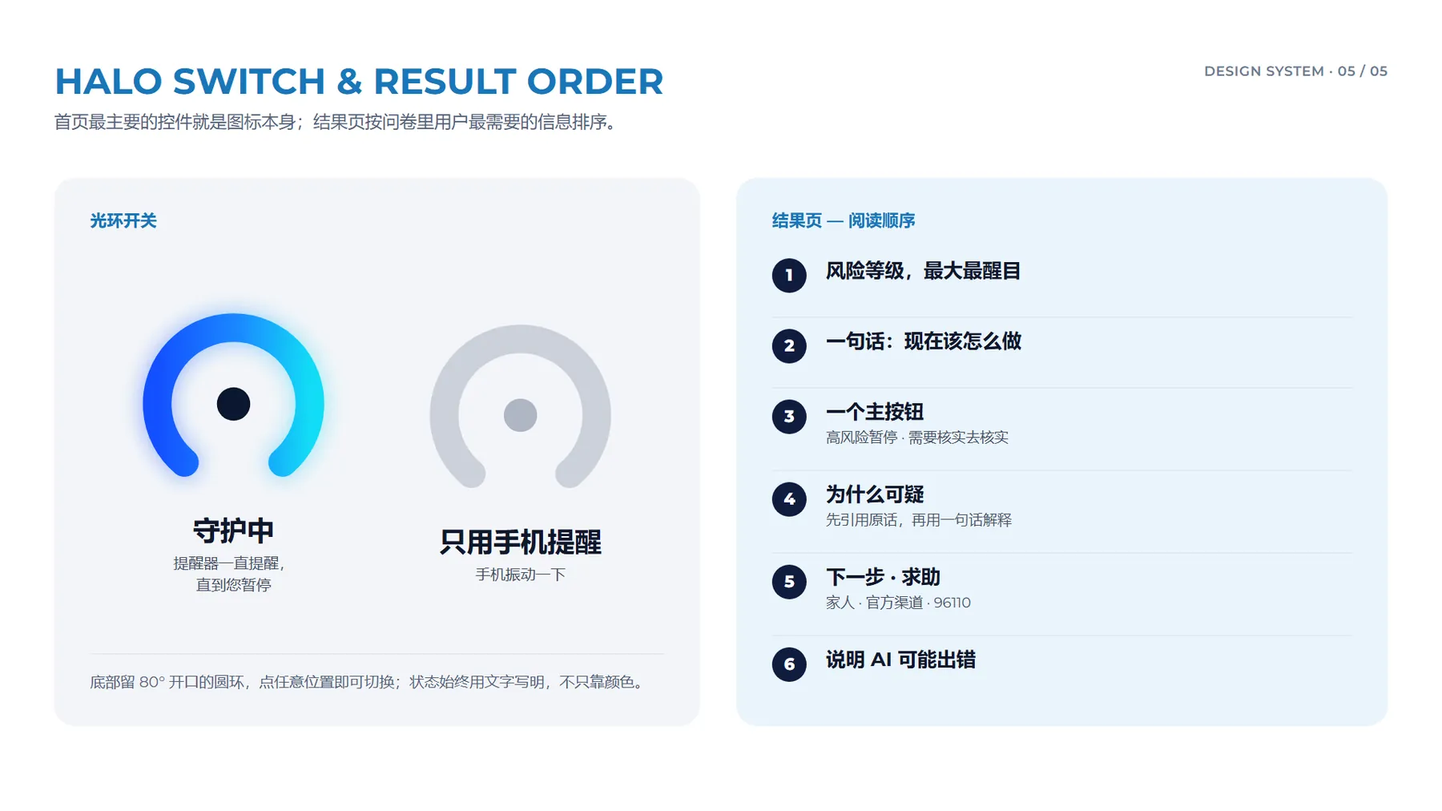
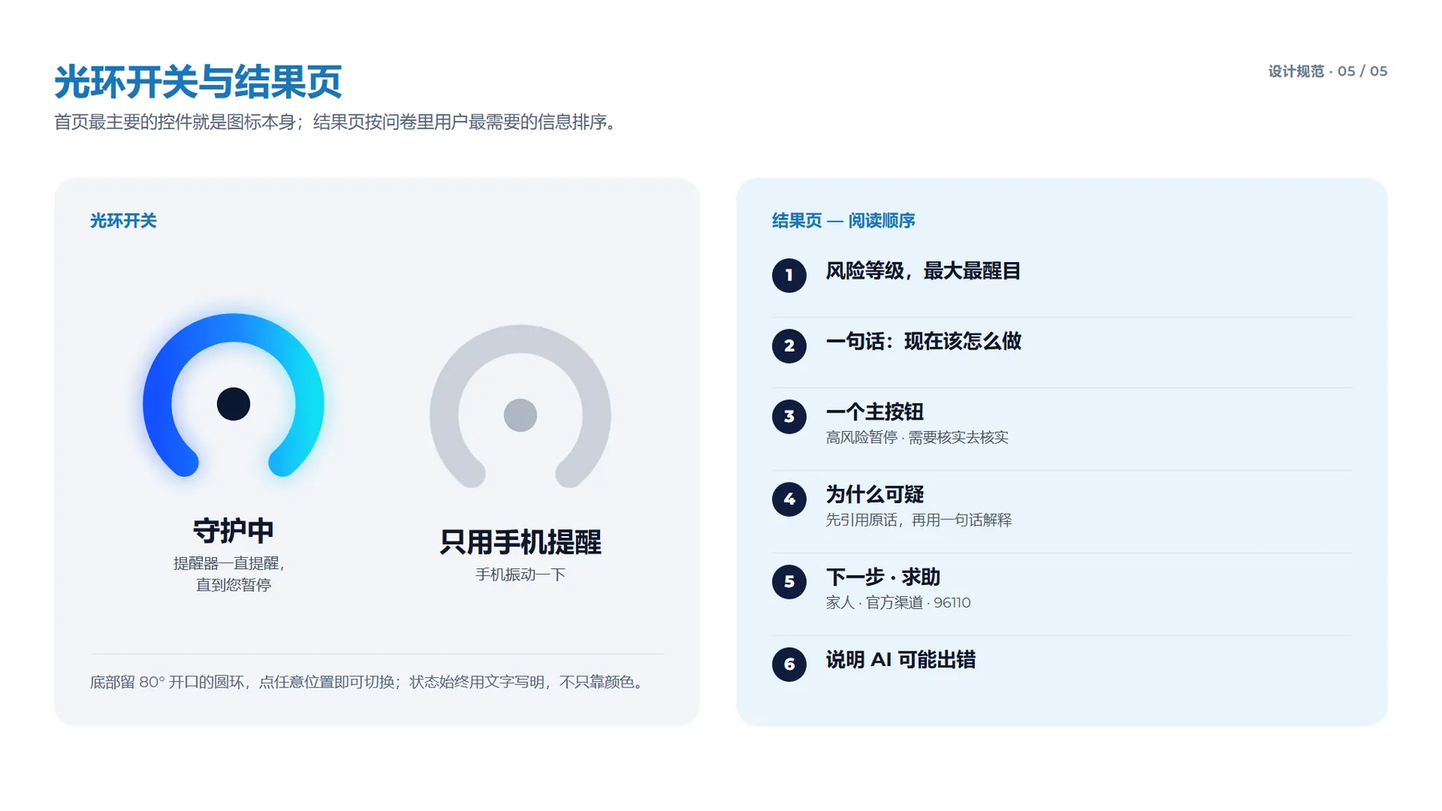
WiseHalo: titles follow the page language (中文 / English, bold); lighter dark-mode backdrop

Changed region(s): [[0.0311, 0.0613, 0.4667, 0.1225], [0.84, 0.0613, 0.9333, 0.0919]]

diff --git a/works/wisehalo.html b/works/wisehalo.html
@@ -7,7 +7,7 @@
 <meta name="description" content="WISEHALO is my MA thesis: an anti-scam experience combining AI risk analysis with a physical alert device. It asks AI to explain why a message is susp">
 <link rel="icon" href="../assets/favicon.svg" type="image/svg+xml">
 <link rel="preload" href="../assets/fonts/cousine-400.woff2" as="font" type="font/woff2" crossorigin>
-<link rel="stylesheet" href="../assets/site.css?v=1794635685">
+<link rel="stylesheet" href="../assets/site.css?v=1794635995">
 <script>
 (function(){var d=document.documentElement,l='zh',th='dark';
 try{var q=new URLSearchParams(location.search).get('lang');if(q==='en'||q==='zh')localStorage.setItem('wz-lang',q);l=q||localStorage.getItem('wz-lang')||'zh';th=localStorage.getItem('wz-theme')||'dark';}catch(e){}
@@ -33,7 +33,7 @@ try{if(!sessionStorage.getItem('wz-loaded')&&!matchMedia('(prefers-reduced-motio
 <main class="project">
   <section class="meta"><div class="m-row"><span><span class="l-zh" lang="zh-Hans-CN">项目类型</span><span class="l-en" lang="en">Project type</span></span><span class="span2"><span class="l-zh" lang="zh-Hans-CN">AI + IOT 硕士毕业设计项目</span><span class="l-en" lang="en">AI + IoT MA thesis project</span></span></div><div class="m-row"><span><span class="l-zh" lang="zh-Hans-CN">项目名称</span><span class="l-en" lang="en">Project name</span></span><span class="span2"><span class="l-zh" lang="zh-Hans-CN">WiseHalo｜AI 防诈骗风险提示系统</span><span class="l-en" lang="en">WiseHalo — Making Hidden Scam Systems Visible</span></span></div><div class="m-row"><span><span class="l-zh" lang="zh-Hans-CN">分类</span><span class="l-en" lang="en">Category</span></span><span class="span2"><span class="tag">[<span class="l-zh" lang="zh-Hans-CN">AI</span><span class="l-en" lang="en">AI</span>]</span><span class="tag">[<span class="l-zh" lang="zh-Hans-CN">交互设计</span><span class="l-en" lang="en">Interaction design</span>]</span><span class="tag">[<span class="l-zh" lang="zh-Hans-CN">IOT</span><span class="l-en" lang="en">IoT</span>]</span><span class="tag">[<span class="l-zh" lang="zh-Hans-CN">适老化</span><span class="l-en" lang="en">Age-inclusive</span>]</span></span></div><div class="m-row"><span><span class="l-zh" lang="zh-Hans-CN">时间</span><span class="l-en" lang="en">Date</span></span><span class="span2">11.2026</span></div></section>
   <div class="p-grid">
-    <div class="p-main"><figure class="fig"><img src="../images/wisehalo/00-hero.webp?v=1794632484" width="1800" height="1012" alt=""></figure><div class="sec-head"><span>01</span><span><span class="l-zh" lang="zh-Hans-CN">问题：诈骗是一个系统</span><span class="l-en" lang="en">Problem: scams are systems</span></span><span class="sec-text"><span class="l-zh" lang="zh-Hans-CN">公开案例显示，诈骗从社交平台和日常任务开始接触用户，用虚假身份建立信任，再用紧迫感和小额回报推动用户做出高风险操作。大多数人只看到表面信息，看不到背后的运作方式，也就很难在中途停下来。</span><span class="l-en" lang="en">Public cases show scams reach people through everyday channels, build trust with fake identities, then use urgency and small rewards to push risky actions. Most people only see the surface message, not the system behind it — so it is hard to stop midway.</span></span></div><div class="figs figs-stack"><figure class="fig"><img src="../images/wisehalo/01.webp?v=1794632484" width="1800" height="1012" alt="" loading="lazy" decoding="async"></figure><figure class="fig"><img src="../images/wisehalo/02.webp?v=1794632484" width="1800" height="1012" alt="" loading="lazy" decoding="async"></figure></div><div class="sec-head"><span>02</span><span><span class="l-zh" lang="zh-Hans-CN">研究：20 个公开案例 + 32 份问卷</span><span class="l-en" lang="en">Research: 20 public cases + 32 surveys</span></span><span class="sec-text"><span class="l-zh" lang="zh-Hans-CN">我分析了 20 个中国 50–65 岁受害者的公开案例，并对 32 人做了线上问卷（其中 50 岁以上 15 人）。大多数人在可疑互动中会提前退出，但最需要的不是更多警告，而是“为什么可疑”的具体解释、可以马上执行的下一步，以及对保护工具本身的信任。</span><span class="l-en" lang="en">I analysed 20 public cases of victims aged 50–65 in China and ran an online survey with 32 people (15 aged 50+). Most respondents already exit suspicious interactions early — what they need is not more warnings, but a specific explanation of why something is suspicious, an actionable next step, and trust in the protective tool itself.</span></span></div><div class="figs figs-stack"><figure class="fig"><img src="../images/wisehalo/03.webp?v=1794632484" width="1800" height="1012" alt="" loading="lazy" decoding="async"></figure><figure class="fig"><img src="../images/wisehalo/04.webp?v=1794632484" width="1800" height="1012" alt="" loading="lazy" decoding="async"></figure><figure class="fig"><img src="../images/wisehalo/05.webp?v=1794632485" width="1800" height="1012" alt="" loading="lazy" decoding="async"></figure><figure class="fig"><img src="../images/wisehalo/06.webp?v=1794632485" width="1800" height="1012" alt="" loading="lazy" decoding="async"></figure><figure class="fig"><img src="../images/wisehalo/07.webp?v=1794632485" width="1800" height="1012" alt="" loading="lazy" decoding="async"></figure><figure class="fig"><img src="../images/wisehalo/08.webp?v=1794632485" width="1800" height="1012" alt="" loading="lazy" decoding="async"></figure></div><div class="sec-head"><span>03</span><span><span class="l-zh" lang="zh-Hans-CN">策略：风险越高，反馈越强</span><span class="l-en" lang="en">Strategy: stronger risk, stronger response</span></span><span class="sec-text"><span class="l-zh" lang="zh-Hans-CN">设备的反馈随风险逐级升级：低风险用黄色呼吸灯提示“核实来源”；中风险用橙色双脉冲并解释诈骗手法、建议联系信任的人；高风险用红色快闪和重复震动，配合手机全屏提示暂停付款。始终由用户自己决定下一步。</span><span class="l-en" lang="en">Feedback escalates with risk: low risk shows a yellow breathing light and suggests checking the source; medium risk adds an orange double pulse, explains the tactic and suggests contacting someone trusted; high risk uses a fast red flash and repeated vibration with a full-screen prompt to pause the payment. The user always makes the final call.</span></span></div><div class="figs figs-stack"><figure class="fig"><img src="../images/wisehalo/09.webp?v=1794632486" width="1800" height="1012" alt="" loading="lazy" decoding="async"></figure><figure class="fig"><img src="../images/wisehalo/10.webp?v=1794632486" width="1800" height="1012" alt="" loading="lazy" decoding="async"></figure><figure class="fig"><img src="../images/wisehalo/11.webp?v=1794632486" width="1800" height="1012" alt="" loading="lazy" decoding="async"></figure></div><div class="sec-head"><span>04</span><span><span class="l-zh" lang="zh-Hans-CN">系统与信息架构</span><span class="l-en" lang="en">System &amp; information architecture</span></span><span class="sec-text"><span class="l-zh" lang="zh-Hans-CN">手机端负责接收可疑内容、调用 AI 分析并解释风险；设备端把风险等级转化为灯光与震动。信息架构围绕“检查 → 理解 → 选择安全行动”三步组织。</span><span class="l-en" lang="en">The phone receives suspicious content, calls the AI analysis and explains the risk; the device translates the risk level into light and vibration. The information architecture follows three steps: check → understand → choose a safe action.</span></span></div><div class="figs figs-stack"><figure class="fig"><img class="l-zh" src="../images/wisehalo/12.webp?v=1794635501" width="1800" height="1861" alt="" loading="lazy" decoding="async"><img class="l-en" src="../images/wisehalo/13.webp?v=1794635501" width="1800" height="1877" alt="" loading="lazy" decoding="async"></figure><figure class="fig"><img src="../images/wisehalo/14.webp?v=1794632487" width="1800" height="1012" alt="" loading="lazy" decoding="async"></figure><figure class="fig"><img src="../images/wisehalo/15.webp?v=1794632487" width="1800" height="1012" alt="" loading="lazy" decoding="async"></figure><figure class="fig"><img src="../images/wisehalo/16.webp?v=1794632488" width="1800" height="1012" alt="" loading="lazy" decoding="async"></figure></div><div class="sec-head"><span>05</span><span><span class="l-zh" lang="zh-Hans-CN">界面：从中保真到高保真</span><span class="l-en" lang="en">Interface: from mid-fi to hi-fi</span></span><span class="sec-text"><span class="l-zh" lang="zh-Hans-CN">高保真把首页做成一个由 App 图标生成的“光环开关”：打开是提醒器守护中，关掉是只用手机提醒。主题色取自图标的藏青与蓝青，鲜艳的颜色只留给光环和风险等级；结果页按“风险等级 → 一句话指令 → 一个主按钮 → 为什么可疑 → 求助”排列，并提供深色模式。下方按设计推进的顺序排列：低保真 → 中保真 → App 图标 → 设计规范（色彩、风险等级、字号与图标、组件、光环开关与结果页）→ 全部高保真界面与深色模式。</span><span class="l-en" lang="en">The hi-fi turns Home into a “halo switch” drawn from the app icon: on means the reminder is guarding, off means phone-only alerts. Colours come from the icon’s navy and blue-cyan, with bright colour reserved for the halo and risk levels. Results follow risk level → one instruction → one primary action → why it’s suspicious → get help, with a dark mode. Below, in the order the design developed: low-fi → mid-fi → app icon → design system (colour, risk levels, type &amp; icons, components, halo switch &amp; result order) → every hi-fi screen plus dark mode.</span></span></div><div class="figs figs-stack"><figure class="fig"><img src="../images/wisehalo/17.webp?v=1794634616" width="1800" height="1012" alt="" loading="lazy" decoding="async"></figure><figure class="fig"><img src="../images/wisehalo/18.webp?v=1794634616" width="1800" height="1012" alt="" loading="lazy" decoding="async"></figure><figure class="fig"><img src="../images/wisehalo/19.webp?v=1794634617" width="1800" height="1012" alt="" loading="lazy" decoding="async"></figure><figure class="fig"><img class="l-zh" src="../images/wisehalo/20.webp?v=1794635501" width="1800" height="1012" alt="" loading="lazy" decoding="async"><img class="l-en" src="../images/wisehalo/21.webp?v=1794635501" width="1800" height="1012" alt="" loading="lazy" decoding="async"></figure><figure class="fig"><img class="l-zh" src="../images/wisehalo/22.webp?v=1794635502" width="1800" height="1012" alt="" loading="lazy" decoding="async"><img class="l-en" src="../images/wisehalo/23.webp?v=1794635502" width="1800" height="1012" alt="" loading="lazy" decoding="async"></figure><figure class="fig"><img class="l-zh" src="../images/wisehalo/24.webp?v=1794635502" width="1800" height="1012" alt="" loading="lazy" decoding="async"><img class="l-en" src="../images/wisehalo/25.webp?v=1794635502" width="1800" height="1012" alt="" loading="lazy" decoding="async"></figure><figure class="fig"><img class="l-zh" src="../images/wisehalo/26.webp?v=1794635503" width="1800" height="1012" alt="" loading="lazy" decoding="async"><img class="l-en" src="../images/wisehalo/27.webp?v=1794635503" width="1800" height="1012" alt="" loading="lazy" decoding="async"></figure><figure class="fig"><img class="l-zh" src="../images/wisehalo/28.webp?v=1794635503" width="1800" height="1012" alt="" loading="lazy" decoding="async"><img class="l-en" src="../images/wisehalo/29.webp?v=1794635503" width="1800" height="1012" alt="" loading="lazy" decoding="async"></figure><figure class="fig"><img class="l-zh" src="../images/wisehalo/30.webp?v=1794635505" width="1800" height="4972" alt="" loading="lazy" decoding="async"><img class="l-en" src="../images/wisehalo/31.webp?v=1794635506" width="1800" height="5069" alt="" loading="lazy" decoding="async"></figure></div><div class="sec-head"><span>06</span><span><span class="l-zh" lang="zh-Hans-CN">可交互原型：试一试</span><span class="l-en" lang="en">Interactive prototype: try it</span></span><span class="sec-text"><span class="l-zh" lang="zh-Hans-CN">这是远程可用性测试使用的原型：点“粘贴”或选一条示例，再点“开始检查”，可以看到风险结果、先暂停 1 分钟、三步核实、发给家人，以及不用打字的“通话快速自查”。首页的光环可以在“只用手机提醒”和“手机 + 提醒器”之间切换——这正是测试中对比的两组。原型用固定规则代替 AI，提醒器状态为模拟。</span><span class="l-en" lang="en">This is the prototype used for remote usability testing: tap Paste or pick an example, then Check, to see the risk result, the 1-minute pause, three-step verification, sending it to family, and the no-typing call self-check. The halo on Home switches between phone-only alerts and phone + reminder — the two conditions compared in testing. The prototype uses fixed rules instead of AI, and the reminder is simulated.</span></span></div><div class="figs figs-stack"><figure class="fig embed phone stage st-halo"><div class="stage-bg" aria-hidden="true"><svg class="stage-halo" viewBox="0 0 236 236" preserveAspectRatio="xMidYMid meet"><defs><linearGradient id="st-halo-g" x1="0" x2="1"><stop offset="0" stop-color="#1450FF"/><stop offset=".55" stop-color="#1A8BFF"/><stop offset="1" stop-color="#12DCF6"/></linearGradient><filter id="st-halo-blur" x="-30%" y="-30%" width="160%" height="160%"><feGaussianBlur stdDeviation="9"/></filter></defs><path class="glow" d="M56.3 191.5A96 96 0 1 1 179.7 191.5"/><path class="echo" d="M38.3 213.0A124 124 0 1 1 197.7 213.0"/><path class="echo e2" d="M21.6 232.9A150 150 0 1 1 214.4 232.9"/><path class="ring" d="M56.3 191.5A96 96 0 1 1 179.7 191.5"/><circle class="led low" cx="34.9" cy="70" r="2.6"/><circle class="led mid" cx="118" cy="22" r="2.6"/><circle class="led high" cx="201.1" cy="70" r="2.6"/></svg><div class="stage-label"><b><span class="l-zh" lang="zh-Hans-CN">可试玩 · 安心护</span><span class="l-en" lang="en">Live demo · WiseHalo</span></b><span><span class="l-zh" lang="zh-Hans-CN">演示模式 · 固定规则代替 AI</span><span class="l-en" lang="en">Demo mode · fixed rules instead of AI</span></span></div><div class="stage-co stage-co1"><span class="n">01</span><b><span class="l-zh" lang="zh-Hans-CN">粘贴 → 检查</span><span class="l-en" lang="en">Paste → Check</span></b><span class="d"><span class="l-zh" lang="zh-Hans-CN">选一条示例，看风险结果</span><span class="l-en" lang="en">Pick an example, see the risk</span></span><i></i></div><div class="stage-co stage-co2"><span class="n">02</span><b><span class="l-zh" lang="zh-Hans-CN">先停一下</span><span class="l-en" lang="en">Pause first</span></b><span class="d"><span class="l-zh" lang="zh-Hans-CN">高风险时暂停 1 分钟，再核实</span><span class="l-en" lang="en">High risk: a 1-minute pause, then verify</span></span><i></i></div><div class="stage-co stage-co3"><span class="n">03</span><b><span class="l-zh" lang="zh-Hans-CN">光环开关</span><span class="l-en" lang="en">Halo switch</span></b><span class="d"><span class="l-zh" lang="zh-Hans-CN">只用手机 ↔ 手机 + 提醒器</span><span class="l-en" lang="en">Phone only ↔ phone + reminder</span></span><i></i></div><div class="stage-co stage-co4"><span class="n">04</span><b><span class="l-zh" lang="zh-Hans-CN">通话快速自查</span><span class="l-en" lang="en">Call self-check</span></b><span class="d"><span class="l-zh" lang="zh-Hans-CN">不用打字，回答 5 个问题</span><span class="l-en" lang="en">No typing, five questions</span></span><i></i></div></div><iframe data-lang-src="../wisehalo-test/?demo=1&amp;frame=1&amp;lang={lang}&amp;theme={theme}" title="WiseHalo interactive prototype" loading="lazy" allow="microphone; camera; autoplay; clipboard-write"></iframe><figcaption><a class="u" href="../wisehalo-test/?demo=1" target="_blank" rel="noopener"><span class="l-zh" lang="zh-Hans-CN">在新窗口打开，或用手机打开 ↗</span><span class="l-en" lang="en">Open in a new tab or on your phone ↗</span></a></figcaption></figure></div><div class="sec-head"><span>07</span><span><span class="l-zh" lang="zh-Hans-CN">硬件原型：灯光与震动语言</span><span class="l-en" lang="en">Hardware: a language of light and vibration</span></span><span class="sec-text"><span class="l-zh" lang="zh-Hans-CN">用 ESP32-C3、RGB 灯环和震动马达搭建原型：先在 Wokwi 中仿真三种风险等级的反馈逻辑，再在面包板上逐项测试灯光和震动，最后让 App 的 AI 分析结果驱动设备反馈。</span><span class="l-en" lang="en">Built with an ESP32-C3, an RGB LED ring and a vibration motor: the feedback logic for three risk levels was first simulated in Wokwi, then tested on a breadboard, and finally driven by the app&#x27;s AI analysis result.</span></span></div><div class="figs figs-stack"><figure class="fig"><img src="../images/wisehalo/32.webp?v=1794634622" width="1800" height="1012" alt="" loading="lazy" decoding="async"></figure><figure class="fig"><img src="../images/wisehalo/33.webp?v=1794634622" width="1800" height="1012" alt="" loading="lazy" decoding="async"></figure><figure class="fig"><img src="../images/wisehalo/34.webp?v=1794634622" width="1800" height="1012" alt="" loading="lazy" decoding="async"></figure><figure class="fig"><img src="../images/wisehalo/35.webp?v=1794634622" width="1800" height="1012" alt="" loading="lazy" decoding="async"></figure><figure class="fig"><img src="../images/wisehalo/36.webp?v=1794634623" width="1800" height="1012" alt="" loading="lazy" decoding="async"></figure><figure class="fig"><img src="../images/wisehalo/37.webp?v=1794634623" width="1800" height="1012" alt="" loading="lazy" decoding="async"></figure></div><div class="sec-head"><span>08</span><span><span class="l-zh" lang="zh-Hans-CN">现状与下一步</span><span class="l-en" lang="en">Status &amp; next steps</span></span><span class="sec-text"><span class="l-zh" lang="zh-Hans-CN">目前已实现：高保真 iOS App（SwiftUI）——提交文字或截图 → AI 分析 → 风险等级、解释与建议 → 提醒器灯光与震动；手机负责“提醒一次”，桌上的提醒器“一直提醒，直到您暂停或核实”。另有通话快速自查、读给我听、屏幕共享警告和 App 内字号。下一步：对 5 位 50 岁以上长辈做远程可用性测试（含“只有手机 / 手机 + 提醒器”对比）和专家评估。</span><span class="l-en" lang="en">Working today: a hi-fi iOS app (SwiftUI) — submit text or a screenshot → AI analysis → risk level, explanation and advice → light and vibration on the reminder. The phone alerts once; the desk reminder keeps alerting until you pause or verify. Also: a call self-check, read-aloud, a screen-sharing warning and in-app text size. Next: remote usability testing with five adults aged 50+ (including phone-only vs phone + reminder) and an expert evaluation.</span></span></div></div>
+    <div class="p-main"><figure class="fig"><img src="../images/wisehalo/00-hero.webp?v=1794632484" width="1800" height="1012" alt=""></figure><div class="sec-head"><span>01</span><span><span class="l-zh" lang="zh-Hans-CN">问题：诈骗是一个系统</span><span class="l-en" lang="en">Problem: scams are systems</span></span><span class="sec-text"><span class="l-zh" lang="zh-Hans-CN">公开案例显示，诈骗从社交平台和日常任务开始接触用户，用虚假身份建立信任，再用紧迫感和小额回报推动用户做出高风险操作。大多数人只看到表面信息，看不到背后的运作方式，也就很难在中途停下来。</span><span class="l-en" lang="en">Public cases show scams reach people through everyday channels, build trust with fake identities, then use urgency and small rewards to push risky actions. Most people only see the surface message, not the system behind it — so it is hard to stop midway.</span></span></div><div class="figs figs-stack"><figure class="fig"><img src="../images/wisehalo/01.webp?v=1794632484" width="1800" height="1012" alt="" loading="lazy" decoding="async"></figure><figure class="fig"><img src="../images/wisehalo/02.webp?v=1794632484" width="1800" height="1012" alt="" loading="lazy" decoding="async"></figure></div><div class="sec-head"><span>02</span><span><span class="l-zh" lang="zh-Hans-CN">研究：20 个公开案例 + 32 份问卷</span><span class="l-en" lang="en">Research: 20 public cases + 32 surveys</span></span><span class="sec-text"><span class="l-zh" lang="zh-Hans-CN">我分析了 20 个中国 50–65 岁受害者的公开案例，并对 32 人做了线上问卷（其中 50 岁以上 15 人）。大多数人在可疑互动中会提前退出，但最需要的不是更多警告，而是“为什么可疑”的具体解释、可以马上执行的下一步，以及对保护工具本身的信任。</span><span class="l-en" lang="en">I analysed 20 public cases of victims aged 50–65 in China and ran an online survey with 32 people (15 aged 50+). Most respondents already exit suspicious interactions early — what they need is not more warnings, but a specific explanation of why something is suspicious, an actionable next step, and trust in the protective tool itself.</span></span></div><div class="figs figs-stack"><figure class="fig"><img src="../images/wisehalo/03.webp?v=1794632484" width="1800" height="1012" alt="" loading="lazy" decoding="async"></figure><figure class="fig"><img src="../images/wisehalo/04.webp?v=1794632484" width="1800" height="1012" alt="" loading="lazy" decoding="async"></figure><figure class="fig"><img src="../images/wisehalo/05.webp?v=1794632485" width="1800" height="1012" alt="" loading="lazy" decoding="async"></figure><figure class="fig"><img src="../images/wisehalo/06.webp?v=1794632485" width="1800" height="1012" alt="" loading="lazy" decoding="async"></figure><figure class="fig"><img src="../images/wisehalo/07.webp?v=1794632485" width="1800" height="1012" alt="" loading="lazy" decoding="async"></figure><figure class="fig"><img src="../images/wisehalo/08.webp?v=1794632485" width="1800" height="1012" alt="" loading="lazy" decoding="async"></figure></div><div class="sec-head"><span>03</span><span><span class="l-zh" lang="zh-Hans-CN">策略：风险越高，反馈越强</span><span class="l-en" lang="en">Strategy: stronger risk, stronger response</span></span><span class="sec-text"><span class="l-zh" lang="zh-Hans-CN">设备的反馈随风险逐级升级：低风险用黄色呼吸灯提示“核实来源”；中风险用橙色双脉冲并解释诈骗手法、建议联系信任的人；高风险用红色快闪和重复震动，配合手机全屏提示暂停付款。始终由用户自己决定下一步。</span><span class="l-en" lang="en">Feedback escalates with risk: low risk shows a yellow breathing light and suggests checking the source; medium risk adds an orange double pulse, explains the tactic and suggests contacting someone trusted; high risk uses a fast red flash and repeated vibration with a full-screen prompt to pause the payment. The user always makes the final call.</span></span></div><div class="figs figs-stack"><figure class="fig"><img src="../images/wisehalo/09.webp?v=1794632486" width="1800" height="1012" alt="" loading="lazy" decoding="async"></figure><figure class="fig"><img src="../images/wisehalo/10.webp?v=1794632486" width="1800" height="1012" alt="" loading="lazy" decoding="async"></figure><figure class="fig"><img src="../images/wisehalo/11.webp?v=1794632486" width="1800" height="1012" alt="" loading="lazy" decoding="async"></figure></div><div class="sec-head"><span>04</span><span><span class="l-zh" lang="zh-Hans-CN">系统与信息架构</span><span class="l-en" lang="en">System &amp; information architecture</span></span><span class="sec-text"><span class="l-zh" lang="zh-Hans-CN">手机端负责接收可疑内容、调用 AI 分析并解释风险；设备端把风险等级转化为灯光与震动。信息架构围绕“检查 → 理解 → 选择安全行动”三步组织。</span><span class="l-en" lang="en">The phone receives suspicious content, calls the AI analysis and explains the risk; the device translates the risk level into light and vibration. The information architecture follows three steps: check → understand → choose a safe action.</span></span></div><div class="figs figs-stack"><figure class="fig"><img class="l-zh" src="../images/wisehalo/12.webp?v=1794635873" width="1800" height="1861" alt="" loading="lazy" decoding="async"><img class="l-en" src="../images/wisehalo/13.webp?v=1794635873" width="1800" height="1877" alt="" loading="lazy" decoding="async"></figure><figure class="fig"><img src="../images/wisehalo/14.webp?v=1794632487" width="1800" height="1012" alt="" loading="lazy" decoding="async"></figure><figure class="fig"><img src="../images/wisehalo/15.webp?v=1794632487" width="1800" height="1012" alt="" loading="lazy" decoding="async"></figure><figure class="fig"><img src="../images/wisehalo/16.webp?v=1794632488" width="1800" height="1012" alt="" loading="lazy" decoding="async"></figure></div><div class="sec-head"><span>05</span><span><span class="l-zh" lang="zh-Hans-CN">界面：从中保真到高保真</span><span class="l-en" lang="en">Interface: from mid-fi to hi-fi</span></span><span class="sec-text"><span class="l-zh" lang="zh-Hans-CN">高保真把首页做成一个由 App 图标生成的“光环开关”：打开是提醒器守护中，关掉是只用手机提醒。主题色取自图标的藏青与蓝青，鲜艳的颜色只留给光环和风险等级；结果页按“风险等级 → 一句话指令 → 一个主按钮 → 为什么可疑 → 求助”排列，并提供深色模式。下方按设计推进的顺序排列：低保真 → 中保真 → App 图标 → 设计规范（色彩、风险等级、字号与图标、组件、光环开关与结果页）→ 全部高保真界面与深色模式。</span><span class="l-en" lang="en">The hi-fi turns Home into a “halo switch” drawn from the app icon: on means the reminder is guarding, off means phone-only alerts. Colours come from the icon’s navy and blue-cyan, with bright colour reserved for the halo and risk levels. Results follow risk level → one instruction → one primary action → why it’s suspicious → get help, with a dark mode. Below, in the order the design developed: low-fi → mid-fi → app icon → design system (colour, risk levels, type &amp; icons, components, halo switch &amp; result order) → every hi-fi screen plus dark mode.</span></span></div><div class="figs figs-stack"><figure class="fig"><img src="../images/wisehalo/17.webp?v=1794634616" width="1800" height="1012" alt="" loading="lazy" decoding="async"></figure><figure class="fig"><img src="../images/wisehalo/18.webp?v=1794634616" width="1800" height="1012" alt="" loading="lazy" decoding="async"></figure><figure class="fig"><img src="../images/wisehalo/19.webp?v=1794634617" width="1800" height="1012" alt="" loading="lazy" decoding="async"></figure><figure class="fig"><img class="l-zh" src="../images/wisehalo/20.webp?v=1794635873" width="1800" height="1012" alt="" loading="lazy" decoding="async"><img class="l-en" src="../images/wisehalo/21.webp?v=1794635874" width="1800" height="1012" alt="" loading="lazy" decoding="async"></figure><figure class="fig"><img class="l-zh" src="../images/wisehalo/22.webp?v=1794635874" width="1800" height="1012" alt="" loading="lazy" decoding="async"><img class="l-en" src="../images/wisehalo/23.webp?v=1794635874" width="1800" height="1012" alt="" loading="lazy" decoding="async"></figure><figure class="fig"><img class="l-zh" src="../images/wisehalo/24.webp?v=1794635874" width="1800" height="1012" alt="" loading="lazy" decoding="async"><img class="l-en" src="../images/wisehalo/25.webp?v=1794635874" width="1800" height="1012" alt="" loading="lazy" decoding="async"></figure><figure class="fig"><img class="l-zh" src="../images/wisehalo/26.webp?v=1794635875" width="1800" height="1012" alt="" loading="lazy" decoding="async"><img class="l-en" src="../images/wisehalo/27.webp?v=1794635875" width="1800" height="1012" alt="" loading="lazy" decoding="async"></figure><figure class="fig"><img class="l-zh" src="../images/wisehalo/28.webp?v=1794635875" width="1800" height="1012" alt="" loading="lazy" decoding="async"><img class="l-en" src="../images/wisehalo/29.webp?v=1794635875" width="1800" height="1012" alt="" loading="lazy" decoding="async"></figure><figure class="fig"><img class="l-zh" src="../images/wisehalo/30.webp?v=1794635877" width="1800" height="4972" alt="" loading="lazy" decoding="async"><img class="l-en" src="../images/wisehalo/31.webp?v=1794635878" width="1800" height="5069" alt="" loading="lazy" decoding="async"></figure></div><div class="sec-head"><span>06</span><span><span class="l-zh" lang="zh-Hans-CN">可交互原型：试一试</span><span class="l-en" lang="en">Interactive prototype: try it</span></span><span class="sec-text"><span class="l-zh" lang="zh-Hans-CN">这是远程可用性测试使用的原型：点“粘贴”或选一条示例，再点“开始检查”，可以看到风险结果、先暂停 1 分钟、三步核实、发给家人，以及不用打字的“通话快速自查”。首页的光环可以在“只用手机提醒”和“手机 + 提醒器”之间切换——这正是测试中对比的两组。原型用固定规则代替 AI，提醒器状态为模拟。</span><span class="l-en" lang="en">This is the prototype used for remote usability testing: tap Paste or pick an example, then Check, to see the risk result, the 1-minute pause, three-step verification, sending it to family, and the no-typing call self-check. The halo on Home switches between phone-only alerts and phone + reminder — the two conditions compared in testing. The prototype uses fixed rules instead of AI, and the reminder is simulated.</span></span></div><div class="figs figs-stack"><figure class="fig embed phone stage st-halo"><div class="stage-bg" aria-hidden="true"><svg class="stage-halo" viewBox="0 0 236 236" preserveAspectRatio="xMidYMid meet"><defs><linearGradient id="st-halo-g" x1="0" x2="1"><stop offset="0" stop-color="#1450FF"/><stop offset=".55" stop-color="#1A8BFF"/><stop offset="1" stop-color="#12DCF6"/></linearGradient><filter id="st-halo-blur" x="-30%" y="-30%" width="160%" height="160%"><feGaussianBlur stdDeviation="9"/></filter></defs><path class="glow" d="M56.3 191.5A96 96 0 1 1 179.7 191.5"/><path class="echo" d="M38.3 213.0A124 124 0 1 1 197.7 213.0"/><path class="echo e2" d="M21.6 232.9A150 150 0 1 1 214.4 232.9"/><path class="ring" d="M56.3 191.5A96 96 0 1 1 179.7 191.5"/><circle class="led low" cx="34.9" cy="70" r="2.6"/><circle class="led mid" cx="118" cy="22" r="2.6"/><circle class="led high" cx="201.1" cy="70" r="2.6"/></svg><div class="stage-label"><b><span class="l-zh" lang="zh-Hans-CN">可试玩 · 安心护</span><span class="l-en" lang="en">Live demo · WiseHalo</span></b><span><span class="l-zh" lang="zh-Hans-CN">演示模式 · 固定规则代替 AI</span><span class="l-en" lang="en">Demo mode · fixed rules instead of AI</span></span></div><div class="stage-co stage-co1"><span class="n">01</span><b><span class="l-zh" lang="zh-Hans-CN">粘贴 → 检查</span><span class="l-en" lang="en">Paste → Check</span></b><span class="d"><span class="l-zh" lang="zh-Hans-CN">选一条示例，看风险结果</span><span class="l-en" lang="en">Pick an example, see the risk</span></span><i></i></div><div class="stage-co stage-co2"><span class="n">02</span><b><span class="l-zh" lang="zh-Hans-CN">先停一下</span><span class="l-en" lang="en">Pause first</span></b><span class="d"><span class="l-zh" lang="zh-Hans-CN">高风险时暂停 1 分钟，再核实</span><span class="l-en" lang="en">High risk: a 1-minute pause, then verify</span></span><i></i></div><div class="stage-co stage-co3"><span class="n">03</span><b><span class="l-zh" lang="zh-Hans-CN">光环开关</span><span class="l-en" lang="en">Halo switch</span></b><span class="d"><span class="l-zh" lang="zh-Hans-CN">只用手机 ↔ 手机 + 提醒器</span><span class="l-en" lang="en">Phone only ↔ phone + reminder</span></span><i></i></div><div class="stage-co stage-co4"><span class="n">04</span><b><span class="l-zh" lang="zh-Hans-CN">通话快速自查</span><span class="l-en" lang="en">Call self-check</span></b><span class="d"><span class="l-zh" lang="zh-Hans-CN">不用打字，回答 5 个问题</span><span class="l-en" lang="en">No typing, five questions</span></span><i></i></div></div><iframe data-lang-src="../wisehalo-test/?demo=1&amp;frame=1&amp;lang={lang}&amp;theme={theme}" title="WiseHalo interactive prototype" loading="lazy" allow="microphone; camera; autoplay; clipboard-write"></iframe><figcaption><a class="u" href="../wisehalo-test/?demo=1" target="_blank" rel="noopener"><span class="l-zh" lang="zh-Hans-CN">在新窗口打开，或用手机打开 ↗</span><span class="l-en" lang="en">Open in a new tab or on your phone ↗</span></a></figcaption></figure></div><div class="sec-head"><span>07</span><span><span class="l-zh" lang="zh-Hans-CN">硬件原型：灯光与震动语言</span><span class="l-en" lang="en">Hardware: a language of light and vibration</span></span><span class="sec-text"><span class="l-zh" lang="zh-Hans-CN">用 ESP32-C3、RGB 灯环和震动马达搭建原型：先在 Wokwi 中仿真三种风险等级的反馈逻辑，再在面包板上逐项测试灯光和震动，最后让 App 的 AI 分析结果驱动设备反馈。</span><span class="l-en" lang="en">Built with an ESP32-C3, an RGB LED ring and a vibration motor: the feedback logic for three risk levels was first simulated in Wokwi, then tested on a breadboard, and finally driven by the app&#x27;s AI analysis result.</span></span></div><div class="figs figs-stack"><figure class="fig"><img src="../images/wisehalo/32.webp?v=1794634622" width="1800" height="1012" alt="" loading="lazy" decoding="async"></figure><figure class="fig"><img src="../images/wisehalo/33.webp?v=1794634622" width="1800" height="1012" alt="" loading="lazy" decoding="async"></figure><figure class="fig"><img src="../images/wisehalo/34.webp?v=1794634622" width="1800" height="1012" alt="" loading="lazy" decoding="async"></figure><figure class="fig"><img src="../images/wisehalo/35.webp?v=1794634622" width="1800" height="1012" alt="" loading="lazy" decoding="async"></figure><figure class="fig"><img src="../images/wisehalo/36.webp?v=1794634623" width="1800" height="1012" alt="" loading="lazy" decoding="async"></figure><figure class="fig"><img src="../images/wisehalo/37.webp?v=1794634623" width="1800" height="1012" alt="" loading="lazy" decoding="async"></figure></div><div class="sec-head"><span>08</span><span><span class="l-zh" lang="zh-Hans-CN">现状与下一步</span><span class="l-en" lang="en">Status &amp; next steps</span></span><span class="sec-text"><span class="l-zh" lang="zh-Hans-CN">目前已实现：高保真 iOS App（SwiftUI）——提交文字或截图 → AI 分析 → 风险等级、解释与建议 → 提醒器灯光与震动；手机负责“提醒一次”，桌上的提醒器“一直提醒，直到您暂停或核实”。另有通话快速自查、读给我听、屏幕共享警告和 App 内字号。下一步：对 5 位 50 岁以上长辈做远程可用性测试（含“只有手机 / 手机 + 提醒器”对比）和专家评估。</span><span class="l-en" lang="en">Working today: a hi-fi iOS app (SwiftUI) — submit text or a screenshot → AI analysis → risk level, explanation and advice → light and vibration on the reminder. The phone alerts once; the desk reminder keeps alerting until you pause or verify. Also: a call self-check, read-aloud, a screen-sharing warning and in-app text size. Next: remote usability testing with five adults aged 50+ (including phone-only vs phone + reminder) and an expert evaluation.</span></span></div></div>
     <aside class="p-side"><div class="sticky"><p><span class="l-zh" lang="zh-Hans-CN">WISEHALO 是我的硕士毕业设计，一个结合 AI 风险分析与实体提醒设备的防诈骗体验项目。项目把可疑信息交给 AI 解释“为什么可疑”，并通过灯光与震动在关键时刻提醒用户先停下来，探索如何让隐藏在日常沟通中的诈骗系统变得可见、可理解、可应对。</span><span class="l-en" lang="en">WISEHALO is my MA thesis: an anti-scam experience combining AI risk analysis with a physical alert device. It asks AI to explain why a message is suspicious and uses light and vibration to prompt a pause at the critical moment — making the scam systems hidden in everyday communication visible, understandable and actionable.</span></p></div></aside>
   </div>
   <section class="meta p-foot"><div class="m-row"><span><span class="l-zh" lang="zh-Hans-CN">CREDITS</span><span class="l-en" lang="en">CREDITS</span></span><span class="span2"><span class="l-zh" lang="zh-Hans-CN">用户研究｜AI 功能设计｜交互设计｜界面设计｜硬件原型</span><span class="l-en" lang="en">User research | AI feature design | Interaction design | UI | Hardware prototyping</span></span></div><div class="m-row"><span><span class="l-zh" lang="zh-Hans-CN">项目性质</span><span class="l-en" lang="en">Format</span></span><span class="span2"><span class="l-zh" lang="zh-Hans-CN">硕士毕业设计 · 个人项目</span><span class="l-en" lang="en">MA thesis · Solo project</span></span></div><div class="m-row"><span><span class="l-zh" lang="zh-Hans-CN">团队</span><span class="l-en" lang="en">Team</span></span><span class="span2"><span class="l-zh" lang="zh-Hans-CN">个人项目</span><span class="l-en" lang="en">Solo</span></span></div><div class="m-row"><span><span class="l-zh" lang="zh-Hans-CN">课程</span><span class="l-en" lang="en">Course</span></span><span class="span2">ITGM 748 · SCAD</span></div><div class="m-row"><span><span class="l-zh" lang="zh-Hans-CN">周期</span><span class="l-en" lang="en">Timeline</span></span><span class="span2">2026.09 – 2026.11</span></div><div class="m-row"><span><span class="l-zh" lang="zh-Hans-CN">工具</span><span class="l-en" lang="en">Tools</span></span><span class="span2">Figma · ESP32-C3 · Wokwi · LLM API · Rhino</span></div><div class="m-row"><span><span class="l-zh" lang="zh-Hans-CN">状态</span><span class="l-en" lang="en">Status</span></span><span class="span2"><span class="l-zh" lang="zh-Hans-CN">进行中</span><span class="l-en" lang="en">In progress</span></span></div><div class="m-row pager"><span></span><span class="span2"><a href="ai-companion-toy.html">NEXT ›</a></span></div></section>
@@ -51,6 +51,6 @@ try{if(!sessionStorage.getItem('wz-loaded')&&!matchMedia('(prefers-reduced-motio
     <div class="dim r">DESIGN &amp; BUILT BY WEI ZHAO</div>
   </div>
 </footer>
-<script src="../assets/site.js?v=1794635685"></script>
+<script src="../assets/site.js?v=1794635995"></script>
 </body>
 </html>

diff --git a/works/closetify.html b/works/closetify.html
@@ -7,7 +7,7 @@
 <meta name="description" content="CLOSETIFY is an AI outfit assistant that suggests looks based on the user&#x27;s wardrobe, weather, schedule and personal style. Built around digital wardr">
 <link rel="icon" href="../assets/favicon.svg" type="image/svg+xml">
 <link rel="preload" href="../assets/fonts/cousine-400.woff2" as="font" type="font/woff2" crossorigin>
-<link rel="stylesheet" href="../assets/site.css?v=1794635685">
+<link rel="stylesheet" href="../assets/site.css?v=1794635995">
 <script>
 (function(){var d=document.documentElement,l='zh',th='dark';
 try{var q=new URLSearchParams(location.search).get('lang');if(q==='en'||q==='zh')localStorage.setItem('wz-lang',q);l=q||localStorage.getItem('wz-lang')||'zh';th=localStorage.getItem('wz-theme')||'dark';}catch(e){}
@@ -51,6 +51,6 @@ try{if(!sessionStorage.getItem('wz-loaded')&&!matchMedia('(prefers-reduced-motio
     <div class="dim r">DESIGN &amp; BUILT BY WEI ZHAO</div>
   </div>
 </footer>
-<script src="../assets/site.js?v=1794635685"></script>
+<script src="../assets/site.js?v=1794635995"></script>
 </body>
 </html>

diff --git a/works/visual-archive.html b/works/visual-archive.html
@@ -7,7 +7,7 @@
 <meta name="description" content="VISUAL ARCHIVE collects my undergraduate work in visual communication — photography, posters, motion posters, packaging, character IP, screen printing">
 <link rel="icon" href="../assets/favicon.svg" type="image/svg+xml">
 <link rel="preload" href="../assets/fonts/cousine-400.woff2" as="font" type="font/woff2" crossorigin>
-<link rel="stylesheet" href="../assets/site.css?v=1794635685">
+<link rel="stylesheet" href="../assets/site.css?v=1794635995">
 <script>
 (function(){var d=document.documentElement,l='zh',th='dark';
 try{var q=new URLSearchParams(location.search).get('lang');if(q==='en'||q==='zh')localStorage.setItem('wz-lang',q);l=q||localStorage.getItem('wz-lang')||'zh';th=localStorage.getItem('wz-theme')||'dark';}catch(e){}
@@ -51,6 +51,6 @@ try{if(!sessionStorage.getItem('wz-loaded')&&!matchMedia('(prefers-reduced-motio
     <div class="dim r">DESIGN &amp; BUILT BY WEI ZHAO</div>
   </div>
 </footer>
-<script src="../assets/site.js?v=1794635685"></script>
+<script src="../assets/site.js?v=1794635995"></script>
 </body>
 </html>

diff --git a/works/2-puzzle.html b/works/2-puzzle.html
@@ -7,7 +7,7 @@
 <meta name="description" content="2 PUZZLE is an animal-themed puzzle game built solo in Unity in two weeks, with a full flow from title screen and level select to timed puzzles and a ">
 <link rel="icon" href="../assets/favicon.svg" type="image/svg+xml">
 <link rel="preload" href="../assets/fonts/cousine-400.woff2" as="font" type="font/woff2" crossorigin>
-<link rel="stylesheet" href="../assets/site.css?v=1794635685">
+<link rel="stylesheet" href="../assets/site.css?v=1794635995">
 <script>
 (function(){var d=document.documentElement,l='zh',th='dark';
 try{var q=new URLSearchParams(location.search).get('lang');if(q==='en'||q==='zh')localStorage.setItem('wz-lang',q);l=q||localStorage.getItem('wz-lang')||'zh';th=localStorage.getItem('wz-theme')||'dark';}catch(e){}
@@ -51,6 +51,6 @@ try{if(!sessionStorage.getItem('wz-loaded')&&!matchMedia('(prefers-reduced-motio
     <div class="dim r">DESIGN &amp; BUILT BY WEI ZHAO</div>
   </div>
 </footer>
-<script src="../assets/site.js?v=1794635685"></script>
+<script src="../assets/site.js?v=1794635995"></script>
 </body>
 </html>

diff --git a/works/ai-companion-toy.html b/works/ai-companion-toy.html
@@ -7,7 +7,7 @@
 <meta name="description" content="AI Companion Toy brings an AI character into a physical object. A round display in a heart-shaped shell plays blinking, talking animation, the phone h">
 <link rel="icon" href="../assets/favicon.svg" type="image/svg+xml">
 <link rel="preload" href="../assets/fonts/cousine-400.woff2" as="font" type="font/woff2" crossorigin>
-<link rel="stylesheet" href="../assets/site.css?v=1794635685">
+<link rel="stylesheet" href="../assets/site.css?v=1794635995">
 <script>
 (function(){var d=document.documentElement,l='zh',th='dark';
 try{var q=new URLSearchParams(location.search).get('lang');if(q==='en'||q==='zh')localStorage.setItem('wz-lang',q);l=q||localStorage.getItem('wz-lang')||'zh';th=localStorage.getItem('wz-theme')||'dark';}catch(e){}
@@ -52,6 +52,6 @@ try{if(!sessionStorage.getItem('wz-loaded')&&!matchMedia('(prefers-reduced-motio
     <div class="dim r">DESIGN &amp; BUILT BY WEI ZHAO</div>
   </div>
 </footer>
-<script src="../assets/site.js?v=1794635685"></script>
+<script src="../assets/site.js?v=1794635995"></script>
 </body>
 </html>

diff --git a/works/bloom-near-you.html b/works/bloom-near-you.html
@@ -7,7 +7,7 @@
 <meta name="description" content="BLOOM NEAR YOU is a digital platform combining AI flower identification, local florist discovery, online ordering and after-sales care. Users can phot">
 <link rel="icon" href="../assets/favicon.svg" type="image/svg+xml">
 <link rel="preload" href="../assets/fonts/cousine-400.woff2" as="font" type="font/woff2" crossorigin>
-<link rel="stylesheet" href="../assets/site.css?v=1794635685">
+<link rel="stylesheet" href="../assets/site.css?v=1794635995">
 <script>
 (function(){var d=document.documentElement,l='zh',th='dark';
 try{var q=new URLSearchParams(location.search).get('lang');if(q==='en'||q==='zh')localStorage.setItem('wz-lang',q);l=q||localStorage.getItem('wz-lang')||'zh';th=localStorage.getItem('wz-theme')||'dark';}catch(e){}
@@ -51,6 +51,6 @@ try{if(!sessionStorage.getItem('wz-loaded')&&!matchMedia('(prefers-reduced-motio
     <div class="dim r">DESIGN &amp; BUILT BY WEI ZHAO</div>
   </div>
 </footer>
-<script src="../assets/site.js?v=1794635685"></script>
+<script src="../assets/site.js?v=1794635995"></script>
 </body>
 </html>

diff --git a/works/iply.html b/works/iply.html
@@ -7,7 +7,7 @@
 <meta name="description" content="IPLY is a co-creation and licensing platform connecting fan creators with IP owners. Fans submit merch proposals, the community validates demand throu">
 <link rel="icon" href="../assets/favicon.svg" type="image/svg+xml">
 <link rel="preload" href="../assets/fonts/cousine-400.woff2" as="font" type="font/woff2" crossorigin>
-<link rel="stylesheet" href="../assets/site.css?v=1794635685">
+<link rel="stylesheet" href="../assets/site.css?v=1794635995">
 <script>
 (function(){var d=document.documentElement,l='zh',th='dark';
 try{var q=new URLSearchParams(location.search).get('lang');if(q==='en'||q==='zh')localStorage.setItem('wz-lang',q);l=q||localStorage.getItem('wz-lang')||'zh';th=localStorage.getItem('wz-theme')||'dark';}catch(e){}
@@ -51,6 +51,6 @@ try{if(!sessionStorage.getItem('wz-loaded')&&!matchMedia('(prefers-reduced-motio
     <div class="dim r">DESIGN &amp; BUILT BY WEI ZHAO</div>
   </div>
 </footer>
-<script src="../assets/site.js?v=1794635685"></script>
+<script src="../assets/site.js?v=1794635995"></script>
 </body>
 </html>

diff --git a/works/mood-candy.html b/works/mood-candy.html
@@ -7,7 +7,7 @@
 <meta name="description" content="MOOD CANDY is a speculative design project set in a brain-computer-interface future. If emotions can be read, measured and supplied on demand, will pe">
 <link rel="icon" href="../assets/favicon.svg" type="image/svg+xml">
 <link rel="preload" href="../assets/fonts/cousine-400.woff2" as="font" type="font/woff2" crossorigin>
-<link rel="stylesheet" href="../assets/site.css?v=1794635685">
+<link rel="stylesheet" href="../assets/site.css?v=1794635995">
 <script>
 (function(){var d=document.documentElement,l='zh',th='dark';
 try{var q=new URLSearchParams(location.search).get('lang');if(q==='en'||q==='zh')localStorage.setItem('wz-lang',q);l=q||localStorage.getItem('wz-lang')||'zh';th=localStorage.getItem('wz-theme')||'dark';}catch(e){}
@@ -51,6 +51,6 @@ try{if(!sessionStorage.getItem('wz-loaded')&&!matchMedia('(prefers-reduced-motio
     <div class="dim r">DESIGN &amp; BUILT BY WEI ZHAO</div>
   </div>
 </footer>
-<script src="../assets/site.js?v=1794635685"></script>
+<script src="../assets/site.js?v=1794635995"></script>
 </body>
 </html>

diff --git a/works/petsignals.html b/works/petsignals.html
@@ -7,7 +7,7 @@
 <meta name="description" content="PETSIGNALS is a pet companion experience combining AI analysis with emotional interaction. Through behaviour recognition, mood feedback and interface ">
 <link rel="icon" href="../assets/favicon.svg" type="image/svg+xml">
 <link rel="preload" href="../assets/fonts/cousine-400.woff2" as="font" type="font/woff2" crossorigin>
-<link rel="stylesheet" href="../assets/site.css?v=1794635685">
+<link rel="stylesheet" href="../assets/site.css?v=1794635995">
 <script>
 (function(){var d=document.documentElement,l='zh',th='dark';
 try{var q=new URLSearchParams(location.search).get('lang');if(q==='en'||q==='zh')localStorage.setItem('wz-lang',q);l=q||localStorage.getItem('wz-lang')||'zh';th=localStorage.getItem('wz-theme')||'dark';}catch(e){}
@@ -51,6 +51,6 @@ try{if(!sessionStorage.getItem('wz-loaded')&&!matchMedia('(prefers-reduced-motio
     <div class="dim r">DESIGN &amp; BUILT BY WEI ZHAO</div>
   </div>
 </footer>
-<script src="../assets/site.js?v=1794635685"></script>
+<script src="../assets/site.js?v=1794635995"></script>
 </body>
 </html>

diff --git a/works/soilux.html b/works/soilux.html
@@ -7,7 +7,7 @@
 <meta name="description" content="SOILUX is a future home experience combining IoT sensing, physical computing and ambient interaction. By sensing plant and environmental changes in re">
 <link rel="icon" href="../assets/favicon.svg" type="image/svg+xml">
 <link rel="preload" href="../assets/fonts/cousine-400.woff2" as="font" type="font/woff2" crossorigin>
-<link rel="stylesheet" href="../assets/site.css?v=1794635685">
+<link rel="stylesheet" href="../assets/site.css?v=1794635995">
 <script>
 (function(){var d=document.documentElement,l='zh',th='dark';
 try{var q=new URLSearchParams(location.search).get('lang');if(q==='en'||q==='zh')localStorage.setItem('wz-lang',q);l=q||localStorage.getItem('wz-lang')||'zh';th=localStorage.getItem('wz-theme')||'dark';}catch(e){}
@@ -51,6 +51,6 @@ try{if(!sessionStorage.getItem('wz-loaded')&&!matchMedia('(prefers-reduced-motio
     <div class="dim r">DESIGN &amp; BUILT BY WEI ZHAO</div>
   </div>
 </footer>
-<script src="../assets/site.js?v=1794635685"></script>
+<script src="../assets/site.js?v=1794635995"></script>
 </body>
 </html>

diff --git a/assets/site.css b/assets/site.css
@@ -367,7 +367,8 @@ html:not(.lang-en) .lang-toggle [data-v="zh"], html.lang-en .lang-toggle [data-v
 .fig.embed.stage.st-halo { --st-a: #f6f8fd; --st-b: #dce5f4; --st-glow: rgba(28, 91, 255, .16); --st-line: rgba(28, 91, 255, .32); --st-echo: rgba(28, 91, 255, .18);
   align-items: center; padding: 64px 0 18px; }
 :root[data-theme="dark"] .fig.embed.stage.st-halo, :root:not([data-theme]) .fig.embed.stage.st-halo {
-  --st-a: #12275a; --st-b: #060c1f; --st-glow: rgba(18, 220, 246, .16); --st-line: rgba(79, 139, 255, .5); --st-echo: rgba(130, 165, 255, .2); }
+  /* lighter, low-saturation slate that blends into the site's own #141414 instead of a heavy navy block */
+  --st-a: #222b3b; --st-b: #16181d; --st-glow: rgba(18, 220, 246, .09); --st-line: rgba(110, 160, 255, .42); --st-echo: rgba(150, 175, 220, .16); }
 .fig.embed.stage.st-halo { background:   /* restated here: .fig.embed.phone (later in the file) sets transparent */
   radial-gradient(40% 44% at 50% 46%, var(--st-glow), transparent 70%),
   radial-gradient(120% 90% at 50% 30%, var(--st-a), var(--st-b)); }

diff --git a/index.html b/index.html
@@ -7,7 +7,7 @@
 <meta name="description" content="Wei Zhao — interaction designer portfolio">
 <link rel="icon" href="assets/favicon.svg" type="image/svg+xml">
 <link rel="preload" href="assets/fonts/cousine-400.woff2" as="font" type="font/woff2" crossorigin>
-<link rel="stylesheet" href="assets/site.css?v=1794635685">
+<link rel="stylesheet" href="assets/site.css?v=1794635995">
 <script>
 (function(){var d=document.documentElement,l='zh',th='dark';
 try{var q=new URLSearchParams(location.search).get('lang');if(q==='en'||q==='zh')localStorage.setItem('wz-lang',q);l=q||localStorage.getItem('wz-lang')||'zh';th=localStorage.getItem('wz-theme')||'dark';}catch(e){}
@@ -160,6 +160,6 @@ try{if(!sessionStorage.getItem('wz-loaded')&&!matchMedia('(prefers-reduced-motio
     <div class="dim r">DESIGN &amp; BUILT BY WEI ZHAO</div>
   </div>
 </footer>
-<script src="assets/site.js?v=1794635685"></script>
+<script src="assets/site.js?v=1794635995"></script>
 </body>
 </html>
